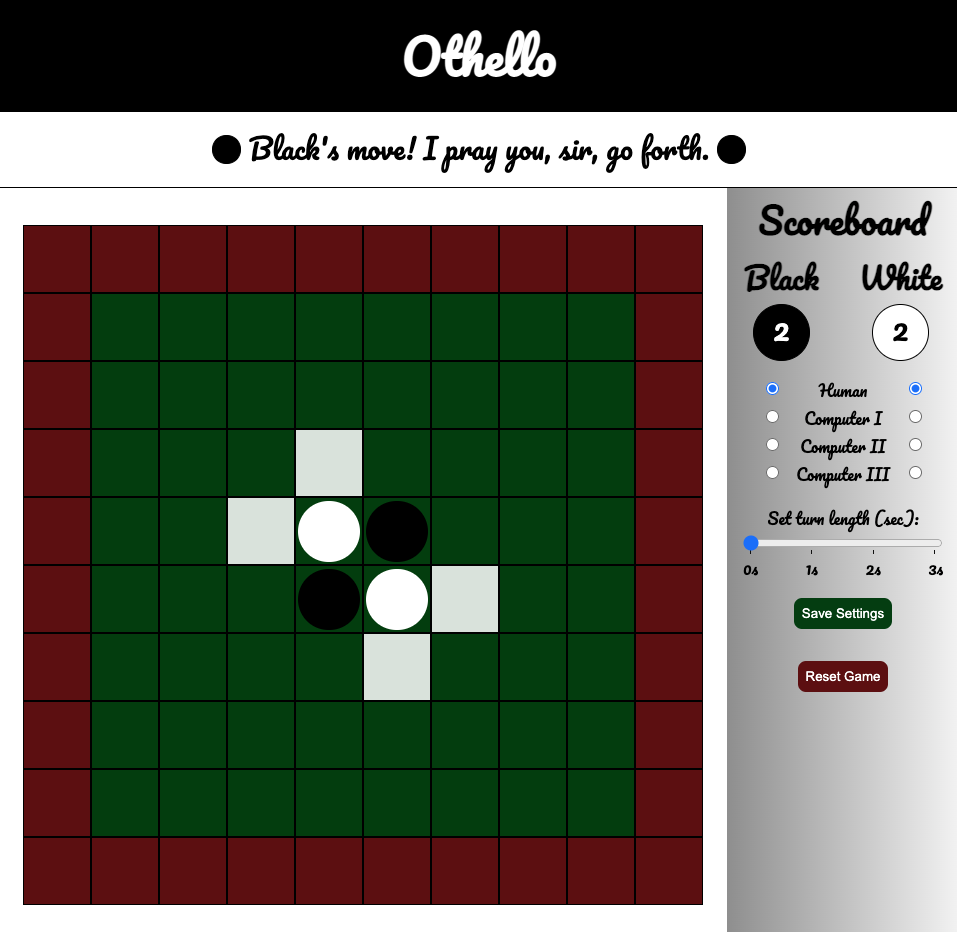
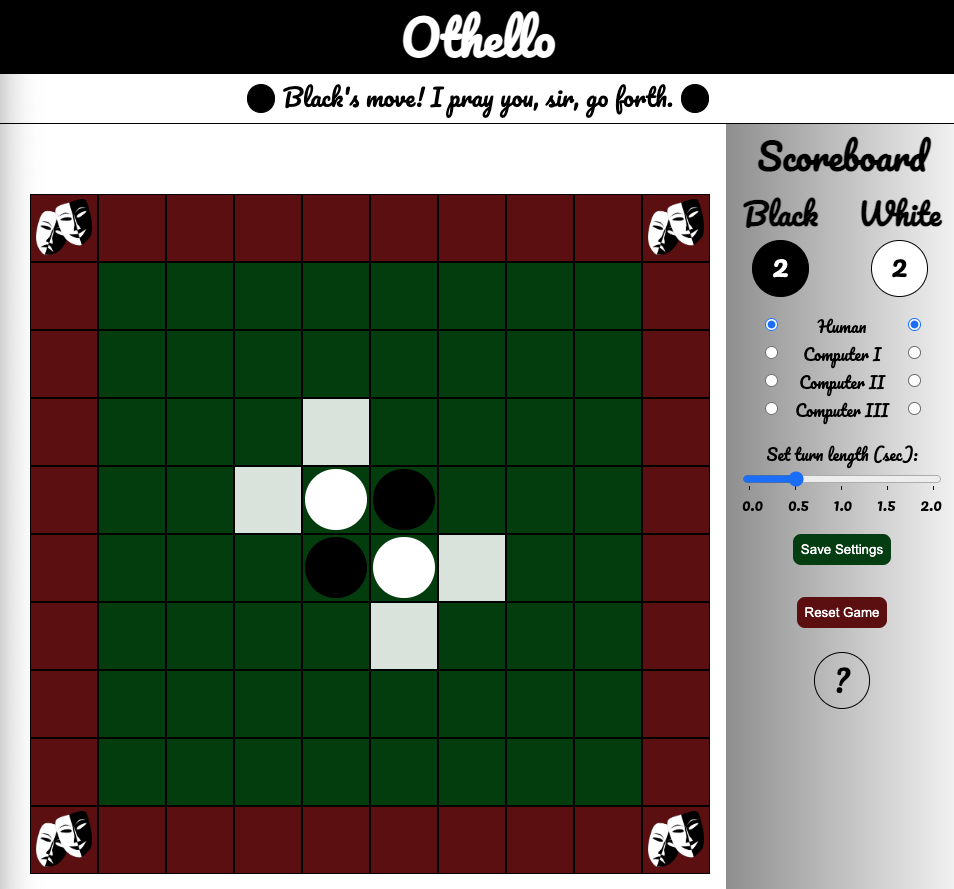
Update readme and screenshot

diff --git a/README.md b/README.md
@@ -4,22 +4,28 @@ An Elizabethan-era spin on the classic board game, Othello.
 
 ![Game screenshot](https://github.com/callumnelson/othello/blob/main/assets/images/screenshot.png)
 
-Black always moves first. Valid moves can be played anywhere that would create a "sandwich" by outflanking one or more of the opponent's pieces in one or more directions.  If a player cannot play, they must skip their turn. If a player can play, they must play. The game ends when one of the following conditions is met:
-1. The board is full and there are no more available squares
-2. Neither player has a valid move
+Black always moves first. A move consists of placing a piece on one of the available squares, which are highlighted on the board at the start of each turn. A valid move is one that creates a "sandwich" by outflanking one or more of the opponent's pieces in one or more directions. After a piece is placed, the browser handles re-rendering the board to change the color of the "captured" pieces. 
 
-The player with the most pieces of their color wins and ties are possible. The computer player utilizes a minimax algorithm with up to three levels of recursion to determine the best move available to it. Challenge her if you dare!
+The rules are simple:
+1. If a player cannot play, their turn will be skipped. 
+2. If a player can play, they must play, and may not choose to skip their turn. 
+3. The game ends in one of two scenarios: 
+  * The board is full and there are no more available squares
+  * Neither player has a valid move to make
+4. At that point, the player with the most pieces of their color wins. It is possible to tie. 
+
+The computer player utilizes a minimax algorithm (see more below) with up to three levels of recursion to determine the best move available to it. Only the bravest users should challenge her!
 
 ## Getting started 🏁
 
-The game will default to human vs. human with a 0.5-second delay for rendering turns. If you wish to play the computer or have a computer vs. computer match, select the appropriate settings and click "Save Settings". If you have designated a computer player to play with black pieces, the game will automatically start after "Save Settings" is pressed.
+The game defaults to human vs. human mode with a 0.5-second delay for rendering turns. The user can elect to play against the computer or watch a computer vs. computer match. In order to do so, select the appropriate settings and click "Save Settings". If a computer player is selected to play with black pieces, the game will automatically start after the user presses "Save Settings". At any time during the game, the user can adjust the settings to change the speed of play or type of player and press "Save Settings". The "Reset Game" button will reset the board, set the turn delay to 0.5s, and set both player types to human. 
 
 ## More on Minimax 💻
 
-Per [Wikipedia](https://en.wikipedia.org/wiki/Minimax), the Minimax algorithm is "a decision rule used in artificial intelligence, decision theory, game theory, statistics, and philosophy for minimizing the possible loss for a worst case (maximum loss) scenario." In Othello, the algorithm seeks to maximize the position on the board, based on a pre-determined set of weights associated with each board square (see attributions), while minimizing the value of the opponent's position. The three levels of computer player differ in the number of moves each looks into the future (depth of recursion) such that:
-1. **Computer I**: Maximizes the value of its current move based on the board weights associated with its available moves without looking beyond the current move. 
-2. **Computer II**: Looks ahead two moves and assumes that the opponent will play its best available move (highest board weight value). The computer then plays the move that maximizes its score while giving its opponent the least valuable. 
-3. **Computer III**: Looks three moves into the future to maximize both its current move and its next move while minimizing the opponent's move in between. 
+Per [Wikipedia](https://en.wikipedia.org/wiki/Minimax), the Minimax algorithm is "a decision rule used in artificial intelligence, decision theory, game theory, statistics, and philosophy for minimizing the possible loss for a worst case (maximum loss) scenario." In Othello, the algorithm seeks to maximize the position on the board, based on a pre-determined set of weights associated with each board square (see attributions), while minimizing the value of the opponent's position. The three levels of computer player differ describe the number of moves into the future (depth of recursion) that the algorithm is taking into account, such that:
+1. **Computer I** maximizes the value of its current move based on the board weights associated with its available moves without looking beyond the current move. 
+2. **Computer II** looks ahead two moves and assumes that the opponent will play its best available move (highest board weight value). The computer then plays the move that maximizes its score while giving its opponent the least valuable. 
+3. **Computer III** looks three moves into the future to maximize both its current move and its next move while minimizing the opponent's move in between. 
 
 ## Technologies used 💻
 
@@ -30,12 +36,13 @@ Per [Wikipedia](https://en.wikipedia.org/wiki/Minimax), the Minimax algorithm is
 * Netlify
 
 ## Attributions 🤩
-* Othello utilizes the Pacifico font family which can be accessed [here](https://fonts.google.com/specimen/Pacifico)
+* The Pacifico font family which can be accessed [here](https://fonts.google.com/specimen/Pacifico)
 * Passages from the original Othello script, written by William Shakespeare, found [here](http://shakespeare.mit.edu/othello/full.html)
 * Minimax algorithm explanation and pseudocode from Amina A. Aljubran [here](http://cs.indstate.edu/~aaljubran/paper.pdf)
 * Recommended minimax board weights from [Washington University](https://courses.cs.washington.edu/courses/cse573/04au/Project/mini1/O-Thell-Us/Othellus.pdf)
-* Fastest path to an endgame with all black pieces [here](https://www.youtube.com/watch?v=6ehiWOSp_wk&ab_channel=SAWADYYY). Used to test endgame logic  
-* Path to an endgame where neither player has a valid move [here](https://www.youtube.com/watch?v=B2RKnhTrbTs&ab_channel=BelgianOthelloAssociation). Used to test endgame logic 
+* For testing endgame logic:
+  * Fastest path to an endgame with all black pieces [here](https://www.youtube.com/watch?v=6ehiWOSp_wk&ab_channel=SAWADYYY)
+  * Path to an endgame where neither player has a valid move [here](https://www.youtube.com/watch?v=B2RKnhTrbTs&ab_channel=BelgianOthelloAssociation)
 * Comedy and drama masks downloaded from [here](https://pixabay.com/vectors/drama-comedy-and-tragedy-theater-312318/)
 
 ## Next Steps (Ice Box) ⏭
